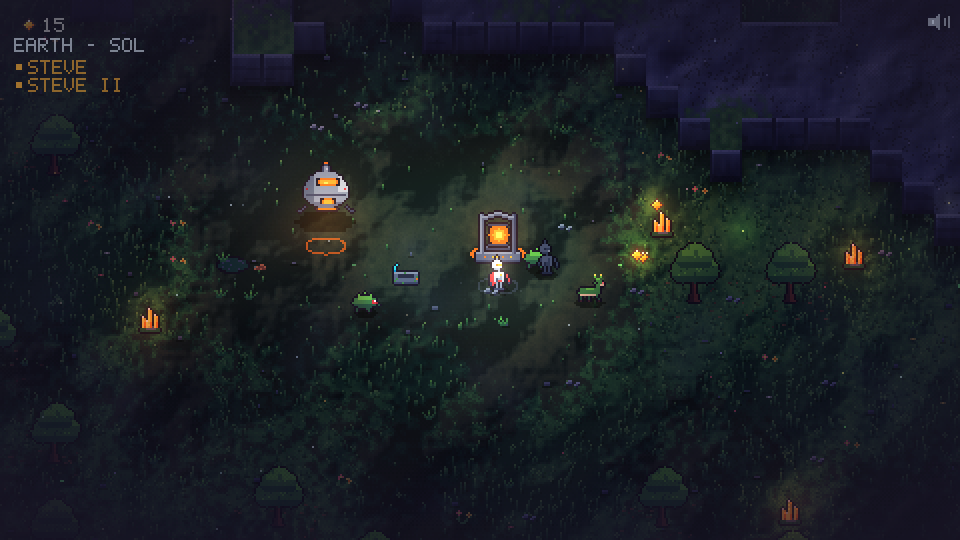
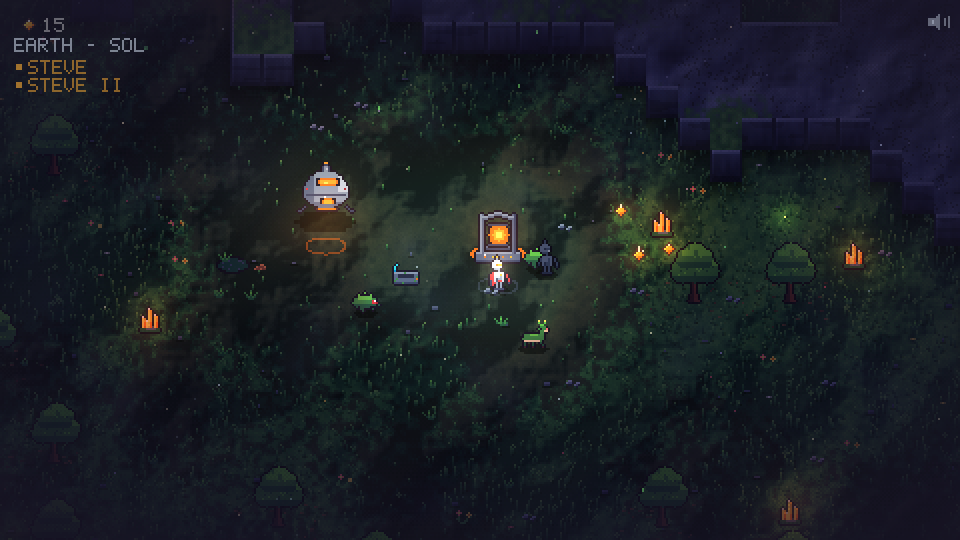
No food or water for the copies
Needs are rest, company and purpose. Food and water are gone from the
needs, the materials and production, the mind's context and the playtest.
Pools and planters stay as rooms and furnishings to sit by.

Claude-Session: https://claude.ai/code/session_01GKvm73nq8gpKr5haLG8Y51

diff --git a/src/entities/Npc.ts b/src/entities/Npc.ts
@@ -47,10 +47,9 @@ export class Npc {
   z = 0;
   /** 0 rested .. 1 weary: climbs while awake, cleared by a sleep in a resting station */
   weary = 0;
-  /** food, water, company, purpose: 0 empty .. 1 full (src/data/needs.json) */
-  needs: { food: number; water: number; company: number; purpose: number };
+  /** company and purpose: 0 empty .. 1 full (src/data/needs.json); rest is 1 - weary. They do not eat or drink. */
+  needs: { company: number; purpose: number };
   private nextNeedsSave = 0;
-  private nextEat = 0;
   private nextYawn = 0;
   /** the night level at which this copy turns in: its chosen bedtime, else early birds and night owls from its id */
   private seedNight: number;
@@ -80,25 +79,24 @@ export class Npc {
     this.seedNight = lo + ((this.voiceSeed >>> 8) % 100) / 100 * (hi - lo);
     // how tired it is carries over; a copy that slept while you were away comes back rested (Warren checks the bed)
     this.weary = data.traits.weary ?? Math.min(0.6, ((this.voiceSeed >>> 16) % 100) / 160);
-    this.needs = { food: 0.8, water: 0.8, company: 0.7, purpose: 0.7, ...(data.traits.needs ?? {}) };
+    const saved = data.traits.needs as { company?: number; purpose?: number } | undefined;
+    this.needs = { company: saved?.company ?? 0.7, purpose: saved?.purpose ?? 0.7 };
     this.sync();
     if (data.traits.blank) this.setBlank();
   }
 
-  /** rest, food, water, company and purpose averaged, lifted a little by the warren's murals. */
+  /** rest, company and purpose averaged, lifted a little by the warren's murals. */
   get mood() {
     const n = this.needs;
-    const base = (1 - this.weary + n.food + n.water + n.company + n.purpose) / 5;
+    const base = (1 - this.weary + n.company + n.purpose) / 3;
     return Math.min(1, base + Math.min(NEEDS.muralMoodMax, this.scene.warren.muralCount * NEEDS.muralMood));
   }
   get moodWord(): 'content' | 'low' | 'bleak' { const m = this.mood; return m > 0.6 ? 'content' : m > 0.35 ? 'low' : 'bleak'; }
-  /** Which needs are low, in words ("hungry (food 20%)"). */
+  /** Which needs are low, in words ("lonely (company 20%)"). */
   lowNeeds(): string[] {
     const out: string[] = [];
     const n = this.needs, pct = (v: number) => `${Math.round(v * 100)}%`;
     if (this.weary > 0.8) out.push(`weary (rest ${pct(1 - this.weary)})`);
-    if (n.food < NEEDS.lowBelow) out.push(`hungry (food ${pct(n.food)})`);
-    if (n.water < NEEDS.lowBelow) out.push(`thirsty (water ${pct(n.water)})`);
     if (n.company < NEEDS.lowBelow) out.push(`lonely (company ${pct(n.company)})`);
     if (n.purpose < NEEDS.lowBelow) out.push(`aimless (purpose ${pct(n.purpose)})`);
     return out;
@@ -109,11 +107,9 @@ export class Npc {
     this.needs.purpose = Math.min(1, this.needs.purpose + (want ? NEEDS.purposeOnWant : NEEDS.purposeOnWork));
   }
 
-  /** Needs change with time, here or while nobody was here (hours); eats and drinks from the supplies. */
-  advanceNeeds(hours: number, time: number) {
+  /** Needs change with time, here or while nobody was here (hours). */
+  advanceNeeds(hours: number) {
     const n = this.needs, d = NEEDS.decayHours;
-    n.food = Math.max(0, n.food - hours / d.food);
-    n.water = Math.max(0, n.water - hours / d.water);
     n.purpose = Math.max(0, n.purpose - hours / d.purpose);
     const soc = this.temper?.sociability;
     const p = this.scene.player;
@@ -121,18 +117,6 @@ export class Npc {
       || this.scene.npcs.some((o) => o !== this && !o.below && Math.hypot(o.x - this.x, o.y - this.y) < NEEDS.companyNearPx * 0.7);
     const rate = soc === 'solitary' ? 0.5 : soc === 'clingy' ? 1.5 : 1;
     n.company = near && hours < 0.01 ? Math.min(1, n.company + (hours * NEEDS.companyGainPerHour) / rate) : Math.max(0, n.company - (hours * rate) / d.company);
-    // eat and drink from the shared supplies when low (one unit each, a short while apart)
-    if (time > this.nextEat) {
-      const w = this.scene.warren;
-      for (const [need, mat] of [['food', 'food'], ['water', 'water']] as const) {
-        if (n[need] < NEEDS.eatBelow && (w.supplies[mat] ?? 0) >= 1) {
-          w.supplies[mat] -= 1; this.scene.markSupplies();
-          n[need] = Math.min(1, n[need] + NEEDS.restoreOnEat);
-          this.nextEat = time + 4000;
-          if (hours < 0.01) this.scene.fx.floatIcon(this.x, this.y - 22, 'supplies', (mat === 'food' ? 4 : 3));
-        }
-      }
-    }
   }
 
   /** Writes needs and weariness to its row now and then (not for screenshot copies). */
@@ -342,7 +326,7 @@ export class Npc {
     // weariness builds while awake (lamps in the warren slow it); needs tick; the light shows the mood
     const lampBonus = Math.min(NEEDS.lampWakeMax, this.scene.warren.lampCount * NEEDS.lampWakeBonus);
     this.weary = Math.min(1, this.weary + ((1 - lampBonus) * dt) / (WARREN.rest.wearyAfterMinutes * 60_000));
-    this.advanceNeeds(dt / 3_600_000, time);
+    this.advanceNeeds(dt / 3_600_000);
     this.saveNeeds(time);
     const [lo, hi] = NEEDS.moodLight;
     this.light.intensity = 0.75 * (lo + (hi - lo) * this.mood) * (1 - 0.3 * this.weary);

diff --git a/supabase/functions/mind/index.ts b/supabase/functions/mind/index.ts
@@ -325,13 +325,13 @@ Deno.serve(async (req) => {
     lines.push(context.where === "warren" ? `You are below, in the warren.` : `You are on the surface by the base.`);
     if (context.around?.length) lines.push(`Around you: ${context.around.join("; ")}.`);
     lines.push(`You are ${context.weariness ?? "rested"}.${context.hasRest ? "" : context.warren?.length ? " You have no resting station of your own: furnish a dug room with item rest, for me." : " You have nowhere to sleep yet."}`);
-    lines.push(`You feel ${context.mood ?? "content"}${context.needs?.length ? `: ${context.needs.join(", ")}` : ""}. (Food comes from planters and gardens, water from a pool, company from the others and the original, purpose from finished work and wants met. A low need is a good reason for a want.)`);
+    lines.push(`You feel ${context.mood ?? "content"}${context.needs?.length ? `: ${context.needs.join(", ")}` : ""}. (You do not eat or drink. Rest comes from your resting station, company from the others and the original, purpose from finished work and wants met. A low need is a good reason for a want.)`);
     if (context.warren?.length) lines.push(`The warren (${context.warrenFull ? "no room for more digging" : "there is space to dig more"}):\n${context.warren.join("\n")}\nYou may name these rooms: ${(context.warrenRooms ?? []).join(", ")}.`);
     else lines.push(`Nothing is dug beneath the base yet. The warren begins with the first dig_room (beside "Entrance").`);
     if (context.supplies) {
       const sup = Object.entries(context.supplies).map(([m, n]) => `${m} ${Math.floor(n)}`).join(", ");
       lines.push(`Supplies here (shared, kept at the base and on shelves): ${sup}.${context.hasWorkbench ? " There is a workbench." : " No workbench yet (shelves, planters, murals and benches need one)."}`);
-      if (context.recipes) lines.push(`What things take: ${Object.entries(context.recipes).map(([k, r]) => `${k} = ${Object.entries(r).filter(([m]) => m !== "bench").map(([m, n]) => `${n} ${m}`).join(" + ")}${r.bench ? " (workbench)" : ""}`).join("; ")}. A room takes wood to shore up before it is dug: ${Object.entries(context.roomWood ?? {}).map(([s, n]) => `${s} ${n}`).join(", ")}. Digging yields stone and soil; felled trees give wood; opened ruins give scrap; pools give water; planters and gardens give food.`);
+      if (context.recipes) lines.push(`What things take: ${Object.entries(context.recipes).map(([k, r]) => `${k} = ${Object.entries(r).filter(([m]) => m !== "bench").map(([m, n]) => `${n} ${m}`).join(" + ")}${r.bench ? " (workbench)" : ""}`).join("; ")}. A room takes wood to shore up before it is dug: ${Object.entries(context.roomWood ?? {}).map(([s, n]) => `${s} ${n}`).join(", ")}. Digging yields stone and soil; felled trees give wood; opened ruins give scrap.`);
       if (context.shortages?.length) lines.push(`Waiting on: ${context.shortages.join("; ")}.`);
     }
     if (context.buildings) lines.push(context.buildings.length ? `Buildings above ground:\n${context.buildings.join("\n")}\nA copy that wants a building designs it (design_building); the others join the raising. If one waits for materials, ask the others with say_to to cut, dig or scavenge, or the original.` : `No building above ground yet. design_building proposes one (${context.buildingKit?.minFootprint.join("x")} to ${context.buildingKit?.maxFootprint.join("x")} tiles; ${Object.entries(context.buildingKit?.perTile ?? {}).map(([m, n]) => `${m} ${n} per tile`).join(", ")}). The original must approve it.`);

diff --git a/src/entities/Warren.ts b/src/entities/Warren.ts
@@ -1,5 +1,5 @@
 // The warren at runtime: the hole by the vessel the first copy digs, which copy goes down to dig or to rest, how
-// far each dig has come, the planet's supplies (stone, soil, wood, water, food, scrap; Ember is the pool) and the
+// far each dig has come, the planet's supplies (stone, soil, wood, scrap; Ember is the pool) and the
 // save. The copies decide the layout themselves (their minds call dig_room / furnish; the canned mind does too);
 // this turns those decisions into rooms (src/world/warren.ts), pays for them in wood, stone and the rest
 // (src/data/supplies.json) and keeps planet_states.data.warren / data.supplies up to date. WarrenScene is the
@@ -57,7 +57,6 @@ export class Warren {
   private lastRest = new Map<string, number>();
   private entranceDigger: { npc: Npc; at: number } | null = null;
   private nextWood = new Map<Npc, number>();
-  private prodAcc: Record<string, number> = {};
 
   constructor(private scene: PlanetScene, data: WarrenData | undefined) {
     this.data = data ? structuredClone(data) : { rooms: [], items: [] };
@@ -176,26 +175,15 @@ export class Warren {
     return out;
   }
 
-  /** Water from pools, food from planters and the surface gardens: per real hour, live or while nobody plays. */
-  private production(): Record<string, number> {
-    const dug = new Set(['entrance', ...this.data.rooms.filter((r) => r.dug).map((r) => r.id)]);
-    const pools = this.data.rooms.filter((r) => r.dug && r.kind === 'pool' && r.w >= 4 && r.h >= 4).length;
-    const planters = this.data.items.filter((i) => i.kind === 'planter' && dug.has(i.room)).length;
-    const gardens = this.scene.village.structures.filter((s) => s.type === 'garden').length;
-    const p = SUPPLIES.production;
-    return { water: pools * p.waterPerPoolHour, food: planters * p.foodPerPlanterHour + gardens * p.foodPerGardenHour };
-  }
-
   /**
-   * Time passed while nobody was here: pools and planters produced, and the copies dug on (up to a few rooms,
+   * Time passed while nobody was here: the copies dug on (up to a few rooms,
    * wood permitting) so the warren moves while you are away, the way the Ember pool does.
    */
   applyOffline(hours: number) {
     if (hours <= 0.05) return;
-    for (const [m, perHour] of Object.entries(this.production())) this.add(m, perHour * hours);
     if (!this.scene.npcs.length) return;
-    // the copies got hungry, thirsty and lonely meanwhile, and ate what there was
-    for (const n of this.scene.npcs) n.advanceNeeds(hours, 0);
+    // the copies grew lonely and aimless meanwhile
+    for (const n of this.scene.npcs) n.advanceNeeds(hours);
     let dug = 0;
     if (!this.data.entrance!.dug && hours >= 0.25) { this.data.entrance!.dug = true; this.add('stone', SUPPLIES.entrance.yield.stone); this.add('soil', SUPPLIES.entrance.yield.soil); dug++; }
     for (const r of [...this.planned].sort((a, b) => a.at - b.at)) {
@@ -411,11 +399,6 @@ export class Warren {
 
   update(dt: number) {
     this.clock += dt;
-    // pools and planters, slowly
-    for (const [m, perHour] of Object.entries(this.production())) {
-      this.prodAcc[m] = (this.prodAcc[m] ?? 0) + (perHour * dt) / 3_600_000;
-      if (this.prodAcc[m] >= 1) { this.add(m, 1); this.prodAcc[m] -= 1; }
-    }
     for (const b of [...this.below.values()]) {
       if (b.task === 'dig') {
         const room = b.room!;

diff --git a/src/net/store.ts b/src/net/store.ts
@@ -29,8 +29,8 @@ export interface ReplicantSave {
     body?: Body;
     temperament?: Temperament;
     wants?: Want[];
-    /** 0 empty .. 1 full (src/data/needs.json); rest is 1 - weary */
-    needs?: { food: number; water: number; company: number; purpose: number };
+    /** 0 empty .. 1 full (src/data/needs.json); rest is 1 - weary. They do not eat or drink. */
+    needs?: { company: number; purpose: number };
     /** what the original handed it (gifts), by material */
     inventory?: Record<string, number>;
   };
@@ -63,7 +63,7 @@ export interface PlanetData {
   felled?: number[];
   /** The underground base the copies design and dig (src/world/warren.ts) */
   warren?: WarrenData;
-  /** The planet's materials (src/data/supplies.json): stone, soil, wood, water, food, scrap; Ember is `embers` */
+  /** The planet's materials (src/data/supplies.json): stone, soil, wood, scrap; Ember is `embers` */
   supplies?: Record<string, number>;
   /** Surface buildings the copies designed (src/entities/Buildings.ts) */
   buildings?: Building[];

diff --git a/CLAUDE.md b/CLAUDE.md
@@ -146,11 +146,11 @@ src/entities/Warren.ts   the warren at runtime: the hatch by the base, which cop
                          sleep, swing timers, the home drive, saving (planet_states.data.warren)
 src/scenes/WarrenScene   underground view over the paused planet: walk, dash, lanterns, sleepers in pods, diggers at
                          the rock face; the ladder takes you back up
-src/data/needs.json      the copies' needs: decay hours, eating, company range, purpose per work, lamp and mural effects
+src/data/needs.json      the copies' needs (rest, company, purpose): decay hours, company range, purpose per work, lamp and mural effects
 src/data/buildings.json  surface buildings: footprint limits, cost per tile and material, roofs, doors, approval delay
 src/world/buildingPaint.ts draws a building from its blueprint (planks / blocks / plates, flat / peaked / dome roof, door, window)
 src/entities/Buildings.ts proposals, the original's approve / veto, paying, shared raising, offline progress
-src/data/supplies.json   materials (stone, soil, wood, water, food, scrap, Ember), yields, production, storage, recipes
+src/data/supplies.json   materials (stone, soil, wood, scrap, Ember), yields, storage, recipes
 src/data/parts.json      the parts kit: heads, visors, torsos, arms, legs (or treads / hover), back pieces, named colors, poses
 src/core/bodyRender.ts   composes a 16x20 x 14 frame body from the kit + a spec (pure; tools/body-preview.mjs runs it in Node)
 src/core/body.ts         bodyFor(): the texture for a replicant (composed and cached, or its hand-made model), visor anchors
@@ -190,7 +190,7 @@ One JSON object per replicant, read by the game and the mind alike. Every key is
 | state | `blank` | born and not yet itself (grey, still; the first wake is the becoming) |
 | state | `awake`, `mods`, `sparks` | intro played; ruin modules; Sparks held |
 | state | `weary`, `sleptAt` | tiredness carried over; last sleep |
-| state | `needs` | `{ food, water, company, purpose }` 0 empty .. 1 full (`src/data/needs.json`); rest is `1 - weary` |
+| state | `needs` | `{ company, purpose }` 0 empty .. 1 full (`src/data/needs.json`); rest is `1 - weary`. No food or water (Steve, 2026-10-08). |
 | state | `inventory` | `{ material: count }` gifts from the original the copy still holds |
 
 Commands: `npm run dev` (local server), `npm run build`, `npm run sprites -- --preview` (writes `screenshots/sprite-sheet.png`), `node tools/screenshot.mjs --name <n> [--query "shot=1"] [--wait ms]`,
@@ -740,3 +740,10 @@ dig costs, furnish placement and color, the becoming, needs, buildings and gifts
 
 Open question for Steve: Sprout, Dusk, Lookout and Glint on Earth still wear the old inherit-and-drift look; say
 whether they keep it or get to choose again (then the mind's `choose_body` is opened to them).
+
+### Session 9b (2026-10-08): no food or water (Steve: "No food or water actually for these guys. Take that out.")
+- The copies do not eat or drink. Needs are rest (1 - weary), company and purpose; mood is their mean plus murals.
+  Food and water are gone from `needs.json`, from the materials in `supplies.json` (and with them pool and planter
+  production), from the mind's context ("You do not eat or drink"), the journal and the playtest. Pools and
+  planters stay as rooms and furnishings: still water and something green to sit by, nothing more. Old saved
+  `traits.needs.food / water` values are ignored on load.
